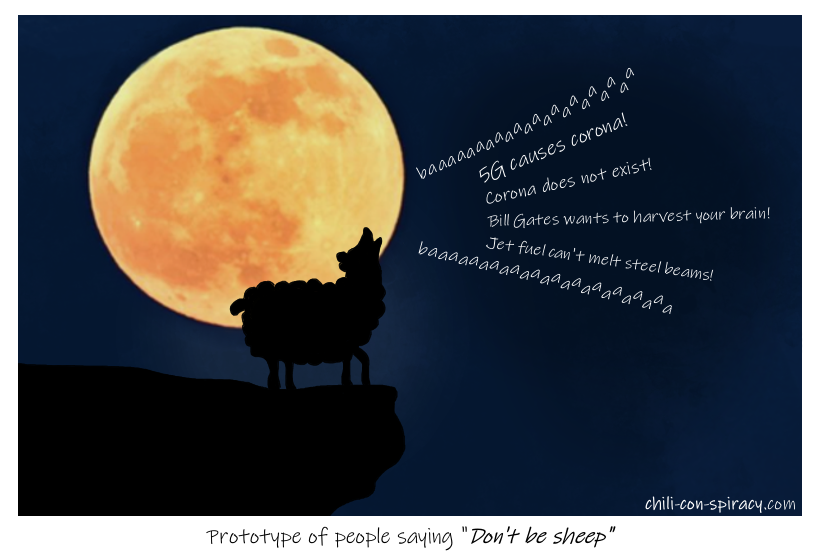
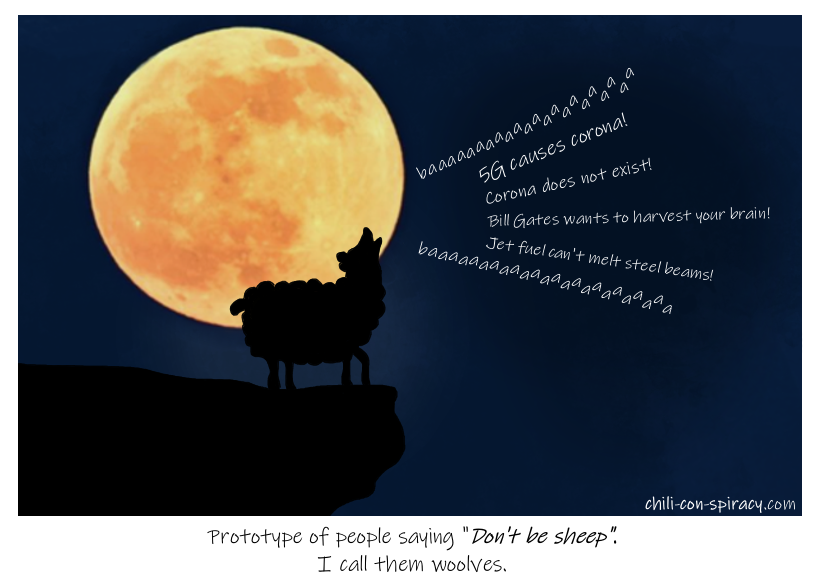
Add new comics

diff --git a/_posts/disabled_2021-01-08-restroom-smalltalk.md b/_posts/disabled_2021-01-08-restroom-smalltalk.md
@@ -1,0 +1,4 @@
+---
+layout: comic
+tags: "restroom work toilet shit piss"
+---

diff --git a/_posts/2021-01-09-the-darkness.md b/_posts/2021-01-09-the-darkness.md
@@ -1,0 +1,4 @@
+---
+layout: comic
+tags: "darkness light books reading"
+---
